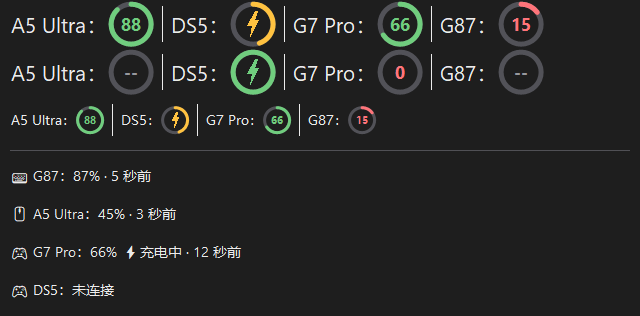
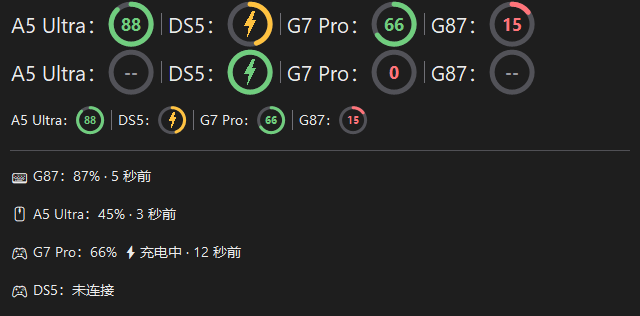
设备分隔改为上下缩进的弱化短线
整行竖线过于抢眼，改为弱化灰、上下各缩进四分之一的短线，
保留分组提示又不切断文本行视觉。

Changed region(s): [[0.25, 0.0, 0.875, 0.3133], [0.1562, 0.3133, 0.5938, 0.4272]]

diff --git a/src/plugin/BatteryDraw.h b/src/plugin/BatteryDraw.h
@@ -1,7 +1,7 @@
 #pragma once
 // ============================================================
 // BatteryDraw.h —— 任务栏外设电量绘制（GDI + GDI+ 圆环）
-// 一段 = 名称: [电量圆环(内含百分比/充电图标)]；设备间细竖线分隔。
+// 一段 = 名称: [电量圆环(内含百分比/充电图标)]，设备间用短弱化分隔线；
 //  - 圆环用 GDI+ 抗锯齿绘制（连续曲率，无锯齿），按比例顺时针描弧
 //  - 配色：≥60% 绿 / 20~59% 黄 / <20% 红（淡灰轨道）
 //  - 百分比加粗画在圆环内孔中央（不显示 %）；充电时环内改画 ⚡
@@ -25,7 +25,7 @@ struct DeviceDisplay
 namespace batdraw {
 
 constexpr int kPadLR = 1;      // 左右内边距（TrafficMonitor 自带条目文字从槽位左缘起始，内边距越大插件条目越显右移）
-constexpr int kSepW = 17;      // 设备分隔宽度（8 + 1px 竖线 + 8）
+constexpr int kSepW = 14;      // 设备分隔宽度（短分隔线 + 两侧留白）
 
 // 段内间距：随字号缩放（高 DPI 下不显得拥挤）
 inline int GapFor(HDC hdc)
@@ -47,6 +47,12 @@ inline int TextW(HDC hdc, const wchar_t* s)
 inline COLORREF MutedColor(bool dark)
 {
     return dark ? RGB(152, 152, 158) : RGB(118, 118, 124);
+}
+
+// 段间短分隔线：比文字更轻，只做分组提示
+inline COLORREF SepColor(bool dark)
+{
+    return dark ? RGB(112, 112, 118) : RGB(176, 176, 182);
 }
 
 // 跟随当前字体族、按给定像素高度/字重创建字体
@@ -147,7 +153,7 @@ struct SegMetrics
     int gap_colon = 1;  // 中文冒号自带右侧留白，后面只补很小间距
     int name_w = 0;     // 名称宽
     int colon_w = 0;    // 名称后冒号宽
-    int total = 0;     // 段总宽
+    int total = 0;      // 段总宽
 };
 
 inline SegMetrics MeasureSeg(HDC hdc, const DeviceDisplay& d)
@@ -311,7 +317,7 @@ inline void DrawPercent(HDC dc, int ring_cx, int y, int h, const RingMetrics& rm
     DeleteObject(nf);
 }
 
-// 绘制整个显示项：竖排居中，段间细分隔线
+// 绘制整个显示项：竖排居中，设备间短弱化分隔线
 inline void DrawSegments(HDC dc, int x, int y, int w, int h, bool dark,
                          const DeviceDisplay* list, int n)
 {
@@ -336,12 +342,14 @@ inline void DrawSegments(HDC dc, int x, int y, int w, int h, bool dark,
         const DeviceDisplay& d = list[i];
         SegMetrics m = MeasureSeg(dc, d);
 
-        if (i > 0) // 设备间细竖线（与文字同色，视觉上融入文本行）
+        if (i > 0)
         {
-            HPEN pen = CreatePen(PS_SOLID, 1, text_col);
+            // 短分隔线：弱化灰、上下缩进，不切断整行视觉
+            HPEN pen = CreatePen(PS_SOLID, 1, SepColor(dark));
             HGDIOBJ op = SelectObject(dc, pen);
-            MoveToEx(dc, cx + kSepW / 2, y + 4, nullptr);
-            LineTo(dc, cx + kSepW / 2, y + h - 4);
+            int sx = cx + kSepW / 2;
+            MoveToEx(dc, sx, y + h / 4, nullptr);
+            LineTo(dc, sx, y + h - h / 4);
             SelectObject(dc, op);
             DeleteObject(pen);
             cx += kSepW;

diff --git a/src/plugin/PeripheralItem.cpp b/src/plugin/PeripheralItem.cpp
@@ -29,7 +29,7 @@ const wchar_t* PeripheralItem::GetItemValueSampleText() const
 
 bool PeripheralItem::IsCustomDraw() const
 {
-    return true; // 自绘：电池图形 + 电量配色 + 分隔线，纯字符文本无法实现
+    return true; // 自绘：电量圆环 + 电量配色 + 短分隔线，纯字符文本无法实现
 }
 
 int PeripheralItem::GetItemWidth() const

diff --git a/README.md b/README.md
@@ -15,7 +15,7 @@
 
 ## 显示效果
 
-任务栏为每个设备绘制一段「名称: 电量数字内嵌的圆环」，设备间以细竖线分隔：
+任务栏为每个设备绘制一段「名称: 电量数字内嵌的圆环」，设备间用短弱化分隔线：
 
 - **电量配色分级**：≥60% 绿色 / 20~59% 黄色 / <20% 红色，一眼识别电量状态
 - **充电指示**：充电中圆环内改画 ⚡（不显示数字，颜色跟随电量色）
